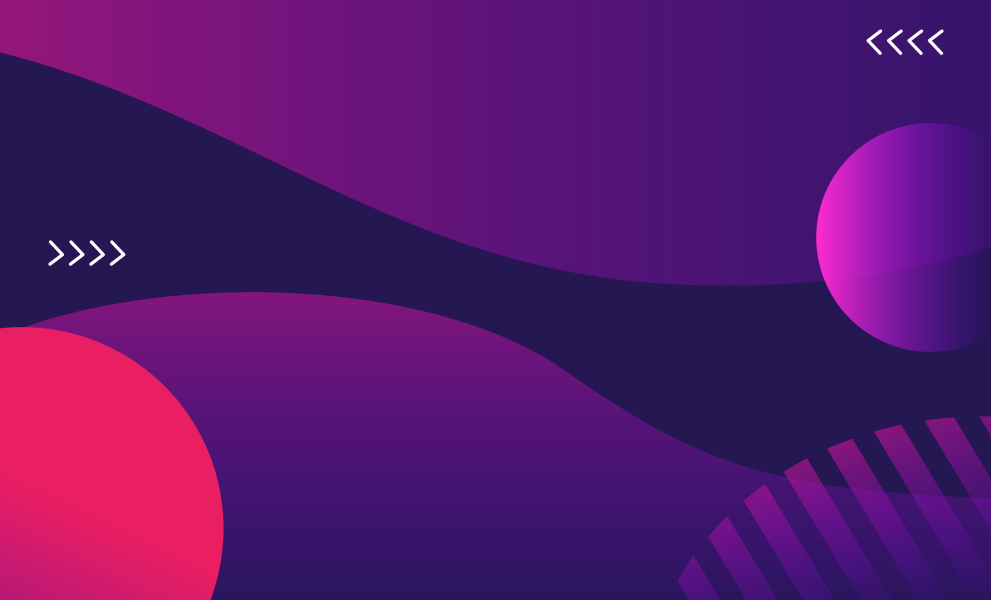
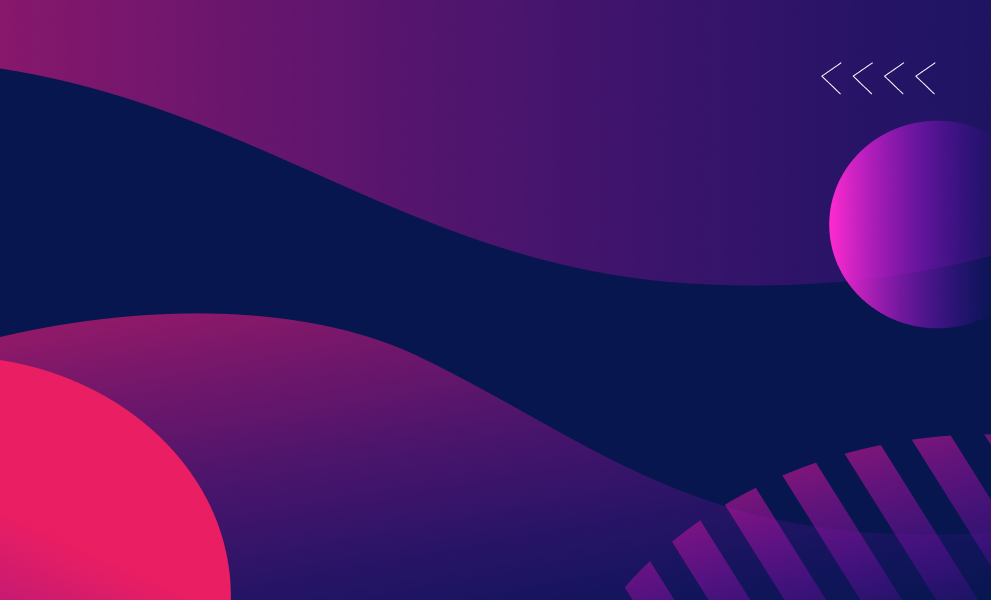
cambios

diff --git a/css/style.css b/css/style.css
@@ -4223,52 +4223,54 @@
 }
 
 @media (min-width: 500px) and (max-width: 599px) {
-  .wrapper {
-    width: 100% !important;
-    display: flex;
-    /* margin: 0px 10px; */
+  .empresas {
+    padding: 0%;
+  }
+  .subtitulo-carousel-empresas {
+    text-align: center;
+    color: #4a148c;
+    font-family: gilroy-bold;
+    font-size: 60px;
+    margin-left: 20px;
+    margin-bottom: 30px;
   }
   .carousel-emp {
-    min-height: 100vh;
+    /* min-height: 100vh; */
+    height: 300px !important;
     display: flex;
+    align-items: center;
+    margin-bottom: 100px;
+    overflow: hidden !important;
+  }
+  .wrapper {
+    width: 100%;
   }
   .carousel-empresas {
-    max-width: 1200px;
-    margin: 0px !important;
-    padding: 0 0px !important;
-  }
-  .active {
-    width: 300px;
-  }
-  .owl-item {
-    width: 300px;
-  }
-  .carousel-empresas {
-    display: flex;
-    max-width: 1200px;
-    margin: 0 auto;
-    padding: 0 10px;
+    /* max-width: 1200px; */
+    margin: 5%;
+    padding: 0 0px;
+    margin: 0px 2%;
   }
   .carousel-empresas .card {
     width: 300px !important;
-    height: 450px;
+    height: 300px;
     color: #fff;
     text-align: center;
     margin: 20px 0;
     line-height: 250px;
     font-size: 90px;
     font-weight: 600;
-    padding: 0px 25%;
-
+    display: flex !important;
+    justify-content: center !important;
+    align-items: center !important;
     border: none;
   }
 }
 
 @media (min-width: 600px) and (max-width: 699px) {
-  .wrapper {
+  /* .wrapper {
     width: 100% !important;
     display: flex;
-    /* margin: 0px 10px; */
   }
   .carousel-emp {
     min-height: 100vh;
@@ -4301,6 +4303,48 @@
     font-size: 90px;
     font-weight: 600;
     padding: 0px 0%;
+    border: none;
+  } */
+  .empresas {
+    padding: 0%;
+  }
+  .subtitulo-carousel-empresas {
+    text-align: center;
+    color: #4a148c;
+    font-family: gilroy-bold;
+    font-size: 60px;
+    margin-left: 20px;
+    margin-bottom: 30px;
+  }
+  .carousel-emp {
+    /* min-height: 100vh; */
+    height: 300px !important;
+    display: flex;
+    align-items: center;
+    margin-bottom: 100px;
+    overflow: hidden !important;
+  }
+  .wrapper {
+    width: 100%;
+  }
+  .carousel-empresas {
+    /* max-width: 1200px; */
+    margin: 5%;
+    padding: 0 0px;
+    margin: 0px 2%;
+  }
+  .carousel-empresas .card {
+    width: 300px !important;
+    height: 300px;
+    color: #fff;
+    text-align: center;
+    margin: 20px 0;
+    line-height: 250px;
+    font-size: 90px;
+    font-weight: 600;
+    display: flex !important;
+    justify-content: center !important;
+    align-items: center !important;
     border: none;
   }
 }
@@ -4340,7 +4384,7 @@
   top: 0;
   margin: auto;
   /* background-image: url(../img/recursos-fondos/fondo-seccion-guia.png); */
-  background-image: url(../img/recursos-fondos/fondo-inicio.jpg);
+  background-image: url(../img/recursos-fondos/fondo-seccion-guia.png);
   background-size: cover;
   width: 100%;
   height: 500px;
